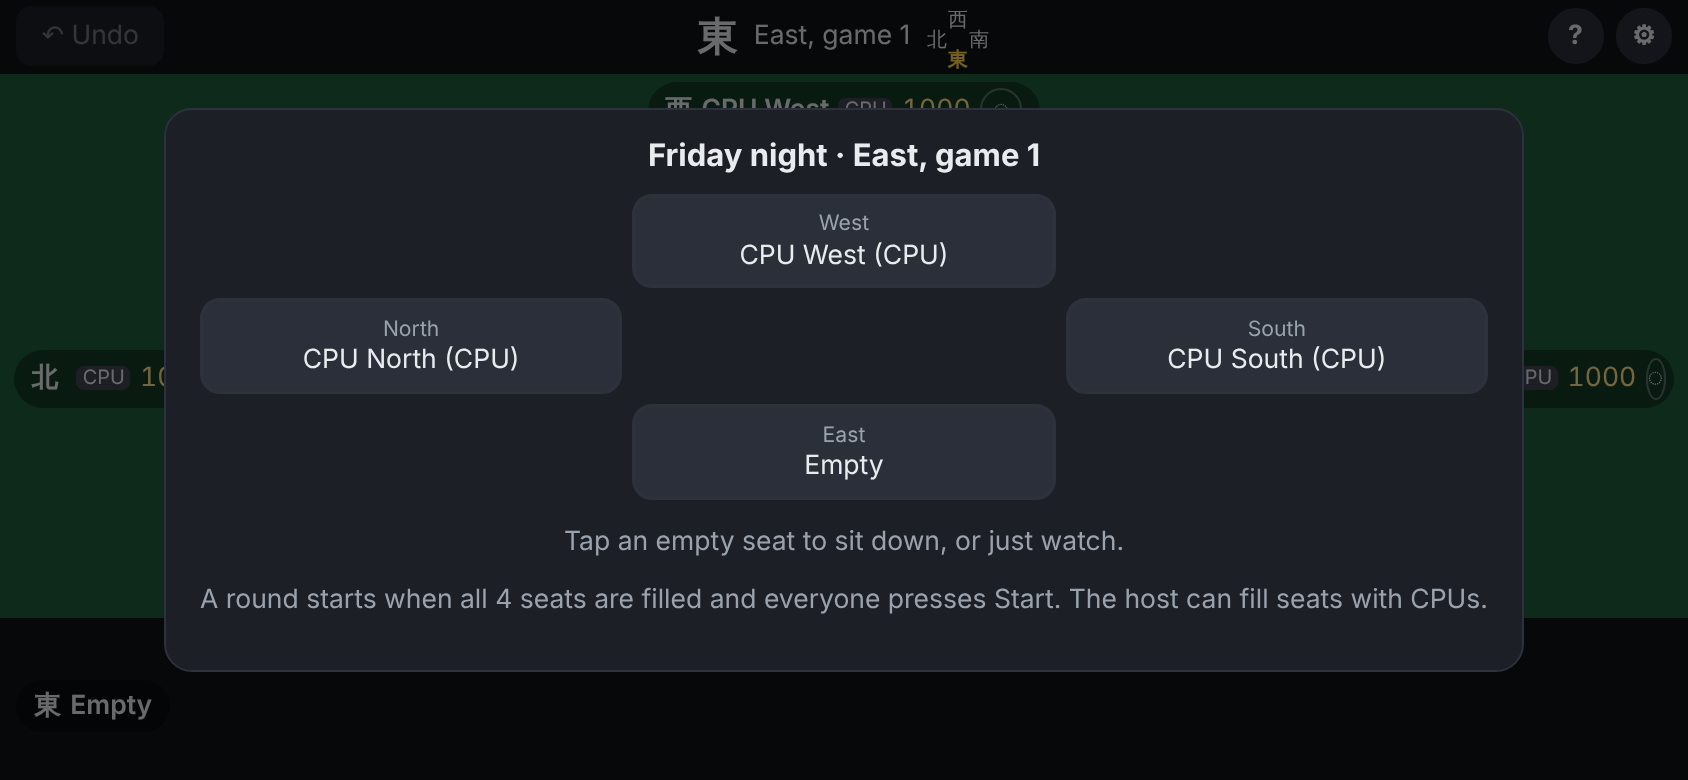
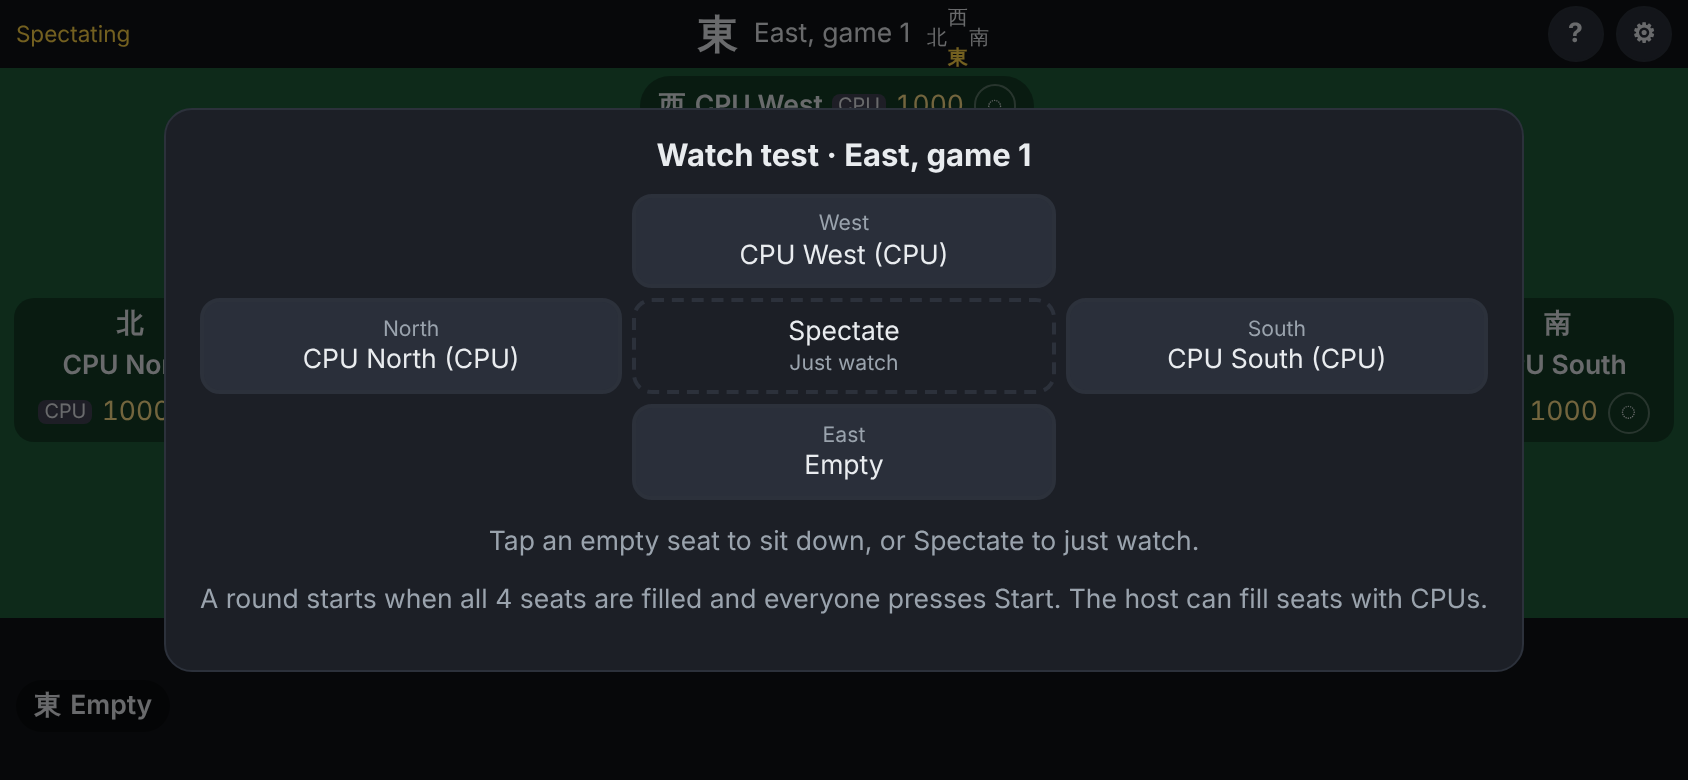
Phase 4: Spectate button in the seat picker and an All hands view for spectators
Claude-Session: https://claude.ai/code/session_015YHyyK2QNgGagiGzuaLbCn

diff --git a/client/src/Table.tsx b/client/src/Table.tsx
@@ -52,6 +52,8 @@ export function Table({ view, send, onLeave }: Props): ReactElement {
   const me = mySeat !== null ? view.seats[mySeat]! : null;
 
   const [panel, setPanel] = useState<'help' | 'settings' | null>(null);
+  /** Spectators can close the seat picker and just watch. */
+  const [justWatching, setJustWatching] = useState(false);
   const [chooser, setChooser] = useState<Chooser>(null);
   const [locked, setLocked] = useState(true);
   const command = (c: Extract<ClientMessage, { type: 'command' }>['command']): void => send({ type: 'command', command: c });
@@ -251,9 +253,21 @@ export function Table({ view, send, onLeave }: Props): ReactElement {
     <div className={`table-screen felt-${view.tableColour}`}>
       <header className="topbar">
         <div className="topbar-left">
-          <button className="btn undo" disabled={!canUndo} onClick={() => command({ type: 'undo' })}>
-            ↶ Undo{lastWin && view.seats.some((s) => s.votedUndoWin) ? ` (${view.seats.filter((s) => s.votedUndoWin).length} agreed)` : ''}
-          </button>
+          {mySeat !== null ? (
+            <button className="btn undo" disabled={!canUndo} onClick={() => command({ type: 'undo' })}>
+              ↶ Undo{lastWin && view.seats.some((s) => s.votedUndoWin) ? ` (${view.seats.filter((s) => s.votedUndoWin).length} agreed)` : ''}
+            </button>
+          ) : (
+            <>
+              <span className="spectating-tag">Spectating</span>
+              {round && (
+                <button className="btn" onClick={() => command({ type: 'setWatchAll', visible: true })}>All hands</button>
+              )}
+              {view.phase === 'betweenRounds' && justWatching && (
+                <button className="btn" onClick={() => setJustWatching(false)}>Take a seat</button>
+              )}
+            </>
+          )}
         </div>
         <div className="topbar-centre">
           <span className="round-wind">{WIND_CHARS[view.match.roundWind]}</span>
@@ -349,7 +363,19 @@ export function Table({ view, send, onLeave }: Props): ReactElement {
         </div>
       )}
 
-      {view.phase === 'betweenRounds' && <SeatPicker view={view} command={command} />}
+      {view.phase === 'betweenRounds' && !(mySeat === null && justWatching) && (
+        <SeatPicker
+          view={view}
+          command={command}
+          onSpectate={() => {
+            if (mySeat !== null) command({ type: 'leaveSeat' });
+            setJustWatching(true);
+          }}
+        />
+      )}
+      {view.you.watchAll && mySeat === null && round && (
+        <AllHands view={view} onClose={() => command({ type: 'setWatchAll', visible: false })} />
+      )}
       {(round?.phase === 'ended' || view.phase === 'finished') && (
         <ResultPanel view={view} command={command} canClaimWin={!!a?.win} onWin={onWin} winLabel={winLabel} />
       )}
@@ -449,8 +475,48 @@ export function Table({ view, send, onLeave }: Props): ReactElement {
   );
 }
 
-/** Between rounds: choose a seat and press Start. */
-function SeatPicker({ view, command }: { view: RoomView; command: (c: Extract<ClientMessage, { type: 'command' }>['command']) => void }): ReactElement {
+/** Spectators: every player's hand, flowers and shown sets, and nothing else. */
+function AllHands({ view, onClose }: { view: RoomView; onClose: () => void }): ReactElement {
+  return (
+    <div className="overlay all-hands-overlay">
+      <div className="panel all-hands">
+        <h3>All hands</h3>
+        {view.seats.map((s) => (
+          <div key={s.seat} className={`all-hands-row${view.round?.turn === s.seat ? ' all-hands-turn' : ''}`}>
+            <span className="all-hands-name">
+              <span className="wind-badge">{WIND_CHARS[s.wind]}</span> {s.name ?? 'Empty'}
+            </span>
+            <span className="all-hands-tiles">
+              {(s.hand ?? []).map((t) => <TileView key={t.id} type={t.type} width="var(--allhands-w)" />)}
+              {s.melds.map((m, i) => (
+                <span key={i} className="meld">
+                  {m.tiles.map((t, j) => <TileView key={t.id} type={t.type} back={m.concealed && (j === 0 || j === 3)} width="var(--allhands-w)" />)}
+                </span>
+              ))}
+              {s.flowers.length > 0 && (
+                <span className="meld flowers">
+                  {s.flowers.map((t) => <TileView key={t.id} type={t.type} width="var(--allhands-w)" />)}
+                </span>
+              )}
+            </span>
+          </div>
+        ))}
+        <button className="btn" onClick={onClose}>Back to the table</button>
+      </div>
+    </div>
+  );
+}
+
+/** Between rounds: choose a seat and press Start, or tap Spectate in the middle to just watch. */
+function SeatPicker({
+  view,
+  command,
+  onSpectate,
+}: {
+  view: RoomView;
+  command: (c: Extract<ClientMessage, { type: 'command' }>['command']) => void;
+  onSpectate: () => void;
+}): ReactElement {
   const mySeat = view.you.seat;
   const me = mySeat !== null ? view.seats[mySeat] : null;
   const filled = view.seats.filter((s) => s.name).length;
@@ -475,6 +541,10 @@ function SeatPicker({ view, command }: { view: RoomView; command: (c: Extract<Cl
               </button>
             );
           })}
+          <button className="seat seat-spectate" onClick={onSpectate}>
+            <span className="seat-name">Spectate</span>
+            <span className="seat-wind">Just watch</span>
+          </button>
         </div>
         {me ? (
           <div className="row">
@@ -484,7 +554,7 @@ function SeatPicker({ view, command }: { view: RoomView; command: (c: Extract<Cl
             <button className="btn" onClick={() => command({ type: 'leaveSeat' })}>Leave seat</button>
           </div>
         ) : (
-          <p className="muted">Tap an empty seat to sit down, or just watch.</p>
+          <p className="muted">Tap an empty seat to sit down, or Spectate to just watch.</p>
         )}
         {filled < 4 && <p className="muted">A round starts when all 4 seats are filled and everyone presses Start. The host can fill seats with CPUs.</p>}
       </div>

diff --git a/server/src/game/room.ts b/server/src/game/room.ts
@@ -52,6 +52,8 @@ export interface Person {
   cpu: CpuDifficulty | null;
   /** As a spectator: the seats whose hands this person has chosen to see. */
   watchingSeats: number[];
+  /** As a spectator: the "All hands" screen is open (every hand is sent). */
+  watchAll?: boolean;
   /** Per-person preferences (language, theme ...), copied on rename. */
   prefs: Record<string, unknown>;
 }
@@ -109,6 +111,7 @@ export type Command =
   | { type: 'undo' }
   | { type: 'confirmRound' }
   | { type: 'setWatchedSeat'; seat: number; visible: boolean }
+  | { type: 'setWatchAll'; visible: boolean }
   | { type: 'setPrefs'; prefs: Record<string, unknown> }
   | { type: 'rename'; newName: string }
   | { type: 'dropOut'; replacement: { cpu: CpuDifficulty } | { spectator: string } }
@@ -335,7 +338,7 @@ export function handleCommand(prev: Room, key: string, cmd: Command, now: number
   if (prev.ended) fail('This game has ended.');
   const actor = prev.people[key];
   if (!actor) fail('You are not in this game.');
-  if (prev.phase === 'finished' && !['setPrefs', 'rename', 'leaveGame', 'setWatchedSeat'].includes(cmd.type)) {
+  if (prev.phase === 'finished' && !['setPrefs', 'rename', 'leaveGame', 'setWatchedSeat', 'setWatchAll'].includes(cmd.type)) {
     fail('The game is finished.');
   }
 
@@ -425,6 +428,9 @@ export function handleCommand(prev: Room, key: string, cmd: Command, now: number
       if (!Number.isInteger(cmd.seat) || cmd.seat < 0 || cmd.seat >= SEATS) fail('There is no such seat.');
       room.people[key]!.watchingSeats = room.people[key]!.watchingSeats.filter((x) => x !== cmd.seat);
       if (cmd.visible) room.people[key]!.watchingSeats.push(cmd.seat);
+      break;
+    case 'setWatchAll':
+      room.people[key]!.watchAll = !!cmd.visible;
       break;
     case 'setPrefs':
       room.people[key]!.prefs = { ...room.people[key]!.prefs, ...cmd.prefs };

diff --git a/client/src/styles.css b/client/src/styles.css
@@ -264,7 +264,7 @@ input { font: inherit; }
 
 .seat-picker { min-width: min(30em, 90vw); }
 .seat-square {
-  display: grid; grid-template-areas: '. s2 .' 's3 . s1' '. s0 .';
+  display: grid; grid-template-areas: '. s2 .' 's3 mid s1' '. s0 .';
   grid-template-columns: 1fr 1fr 1fr; gap: 0.4em; margin: 0.5em 0;
 }
 .seat { display: flex; flex-direction: column; align-items: center; gap: 0.1em; padding: 0.5em; border-radius: 10px; background: #2a2f3a; border: 2px solid var(--panel-border); cursor: pointer; }
@@ -326,3 +326,16 @@ input { font: inherit; }
 .help-cols { flex-wrap: nowrap; font-size: 0.78em; gap: 1em; }
 .help td, .help th { padding: 0.1em 0.45em; }
 .help h3 { margin-bottom: 0.3em; }
+
+/* Spectating */
+.spectating-tag { align-self: center; font-size: 0.85em; color: #ffd447; }
+.seat-spectate { grid-area: mid; background: transparent; border-style: dashed; }
+.all-hands-overlay { --allhands-w: min(4.4vw, 7.6vh); }
+.all-hands { min-width: min(70em, 96vw); }
+.all-hands-row {
+  display: grid; grid-template-columns: 7em 1fr; align-items: center; gap: 0.6em;
+  padding: 0.3em 0.4em; border-radius: 8px; text-align: left;
+}
+.all-hands-turn { background: rgba(255, 212, 71, 0.12); }
+.all-hands-name { overflow: hidden; text-overflow: ellipsis; white-space: nowrap; font-weight: 600; }
+.all-hands-tiles { display: flex; flex-wrap: wrap; gap: 1px 0.5em; align-items: center; }

diff --git a/server/test/room.test.ts b/server/test/room.test.ts
@@ -139,6 +139,24 @@ describe('what each device can see', () => {
     expect(v.seats[2]!.hand).toBeNull();
   });
 
+  it('"All hands" shows every hand to a spectator without changing their own choices', () => {
+    let r = join(startedTable(), 'Spec');
+    r = cmd(r, 'Spec', { type: 'setWatchedSeat', seat: 1, visible: true });
+    r = cmd(r, 'Spec', { type: 'setWatchAll', visible: true });
+    let v = viewFor(r, 'spec', tick());
+    expect(v.you.watchAll).toBe(true);
+    expect(v.seats.map((s) => s.hand?.length)).toEqual([14, 13, 13, 13]);
+    r = cmd(r, 'Spec', { type: 'setWatchAll', visible: false });
+    v = viewFor(r, 'spec', tick());
+    expect(v.seats.map((s) => s.hand?.length ?? null)).toEqual([null, 13, null, null]);
+  });
+
+  it('a seated player cannot use "All hands" to see other hands', () => {
+    const r = cmd(startedTable(), 'Amy', { type: 'setWatchAll', visible: true });
+    expect(viewFor(r, 'amy', tick()).seats[2]!.hand).toBeNull();
+    expect(viewFor(r, 'amy', tick()).you.watchAll).toBe(false);
+  });
+
   it('a seated player cannot use spectator hand choices to see other hands', () => {
     const r = cmd(startedTable(), 'Amy', { type: 'setWatchedSeat', seat: 2, visible: true });
     expect(viewFor(r, 'amy', tick()).seats[2]!.hand).toBeNull();

diff --git a/server/src/game/view.ts b/server/src/game/view.ts
@@ -41,7 +41,7 @@ export interface RoomView {
   id: string;
   name: string;
   label: { en: string; zh: string };
-  you: { name: string; seat: number | null; watchingSeats: number[]; prefs: Record<string, unknown> };
+  you: { name: string; seat: number | null; watchingSeats: number[]; watchAll: boolean; prefs: Record<string, unknown> };
   phase: RoomPhase;
   settings: GameSettings;
   startingBalance: number;
@@ -80,7 +80,7 @@ export function viewFor(room: Room, viewerKey: string, now: number): RoomView {
     const p = key ? room.people[key]! : null;
     const hand = round?.core.hands[seat] ?? [];
     const canSee =
-      !!round && (seat === mySeat || ended || (mySeat === null && viewer.watchingSeats.includes(seat)));
+      !!round && (seat === mySeat || ended || (mySeat === null && (!!viewer.watchAll || viewer.watchingSeats.includes(seat))));
     return {
       seat,
       name: p?.name ?? null,
@@ -120,6 +120,7 @@ export function viewFor(room: Room, viewerKey: string, now: number): RoomView {
       name: viewer.name,
       seat: mySeat,
       watchingSeats: viewer.watchingSeats.slice().sort(),
+      watchAll: mySeat === null && !!viewer.watchAll,
       prefs: viewer.prefs,
     },
     phase: room.phase,

diff --git a/PROJECT_NOTES.md b/PROJECT_NOTES.md
@@ -9,7 +9,7 @@ disagrees with those, the newest dated entry here wins.
 - Phase 1 (rules engine): **done**. Tile set and checks, shuffle, wall and dice
   break, dealing with flower replacement, winning-hand check, legal
   chow/pong/gong/win, two-winner rule, fan counting, payments.
-- Tests: 182 passing (`npm test`), including 60 rounds of random play that check no tile is ever lost or created.
+- Tests: 184 passing (`npm test`), including 60 rounds of random play that check no tile is ever lost or created.
 - Phase 2 (game server): **done**.
   - Step 1 round engine (`server/src/game/round.ts`): **done**.
   - Step 2 full 16-round game (`server/src/game/match.ts`): **done**.
@@ -23,7 +23,9 @@ disagrees with those, the newest dated entry here wins.
   action buttons, claim by tapping the discard, dice swipe, seat picker, Help
   panel, round-end screen, simple settings (drop out, leave), basic join
   screen, and the host page. Screenshots in `docs/screenshots/`.
-- Phase 4 (lobby and joining polish): next.
+- Phase 4 (lobby, joining, spectators): **done**. Spectate button in the
+  middle of the seat picker; "All hands" view for spectators.
+- Phase 5 (settings): next.
 
 ## Decisions
 
@@ -71,6 +73,8 @@ disagrees with those, the newest dated entry here wins.
 | 2026-11-08 | **Screen layout:** your seat is always at the bottom; next player on the right, opposite at the top, previous on the left. Each player's discards sit in front of them in the middle; the newest discard is outlined in yellow. The tile to draw glows yellow on the wall. | Claude (Kyle may change) |
 | 2026-11-08 | **Spectator view:** a spectator sees the table from seat East's side by default; tapping a player's panel moves that player to the bottom. The eye button on a player shows/hides their hand. | Claude (Kyle may change) |
 | 2026-11-08 | **Chip lock button:** shown next to the chip total but does nothing yet (manual calculating is phase 6). | Claude |
+| 2026-11-08 | **Spectator "All hands":** a button for spectators opens a screen showing only the 4 hands (tiles, flowers and shown sets). It does not change which single hands the spectator chose to reveal on the table. | Kyle |
+| 2026-11-08 | **Spectate button** in the middle of the seat picker: anyone can start watching straight away (a seated player who taps it leaves their seat). Spectators get a "Take a seat" button between rounds. | Kyle |
 | 2026-11-08 | **First dealer** of a new game is seat 0 (East). | Claude (Kyle may change) |
 | 2026-11-08 | **Undo moves:** discard, 上, 碰, 槓, 胡. Draws are not separate moves. Undoing a discard puts the tile back in that player's hand and it is their turn again. | Kyle |
 | 2026-11-08 | **Several games at once:** one server can run many separate games, each with its own name. | Kyle |
